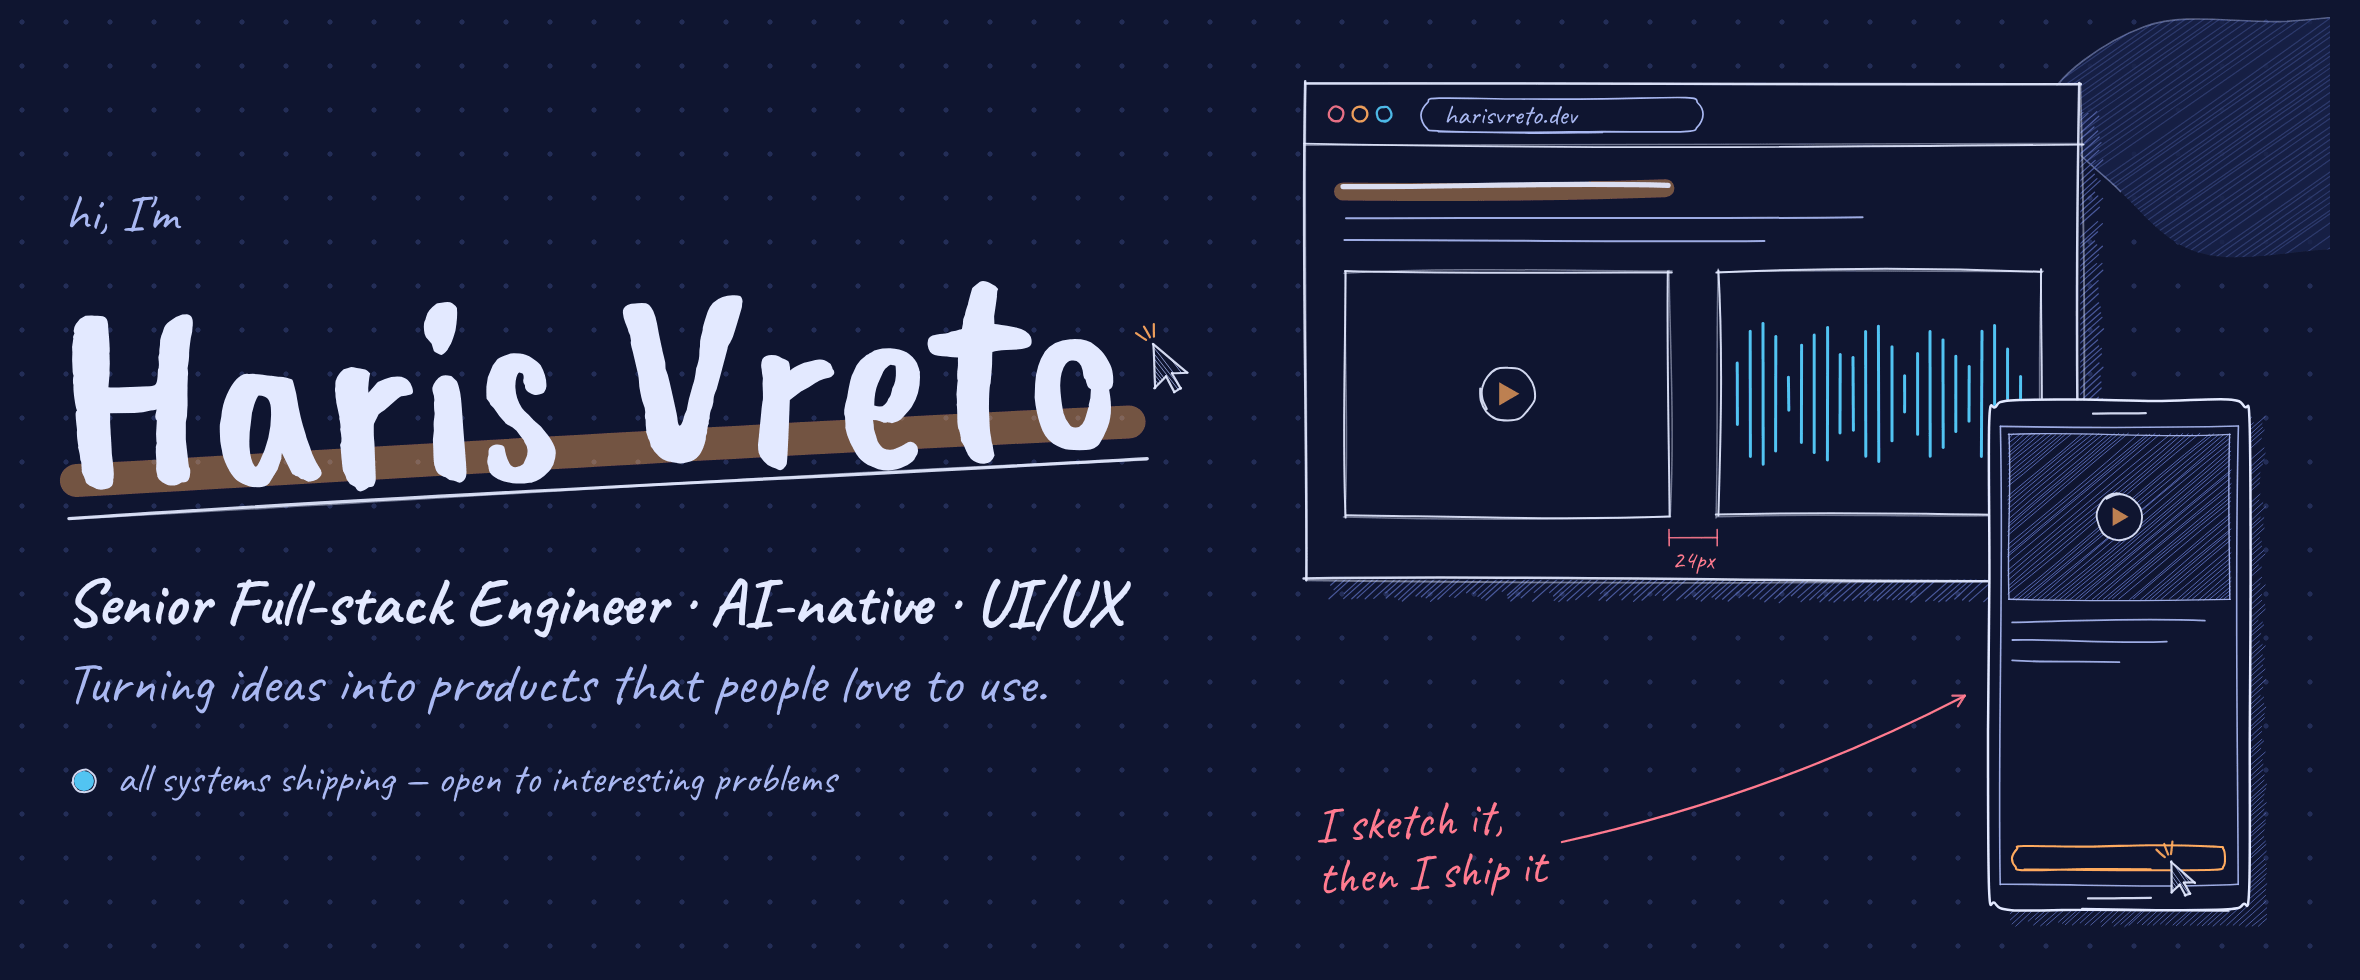
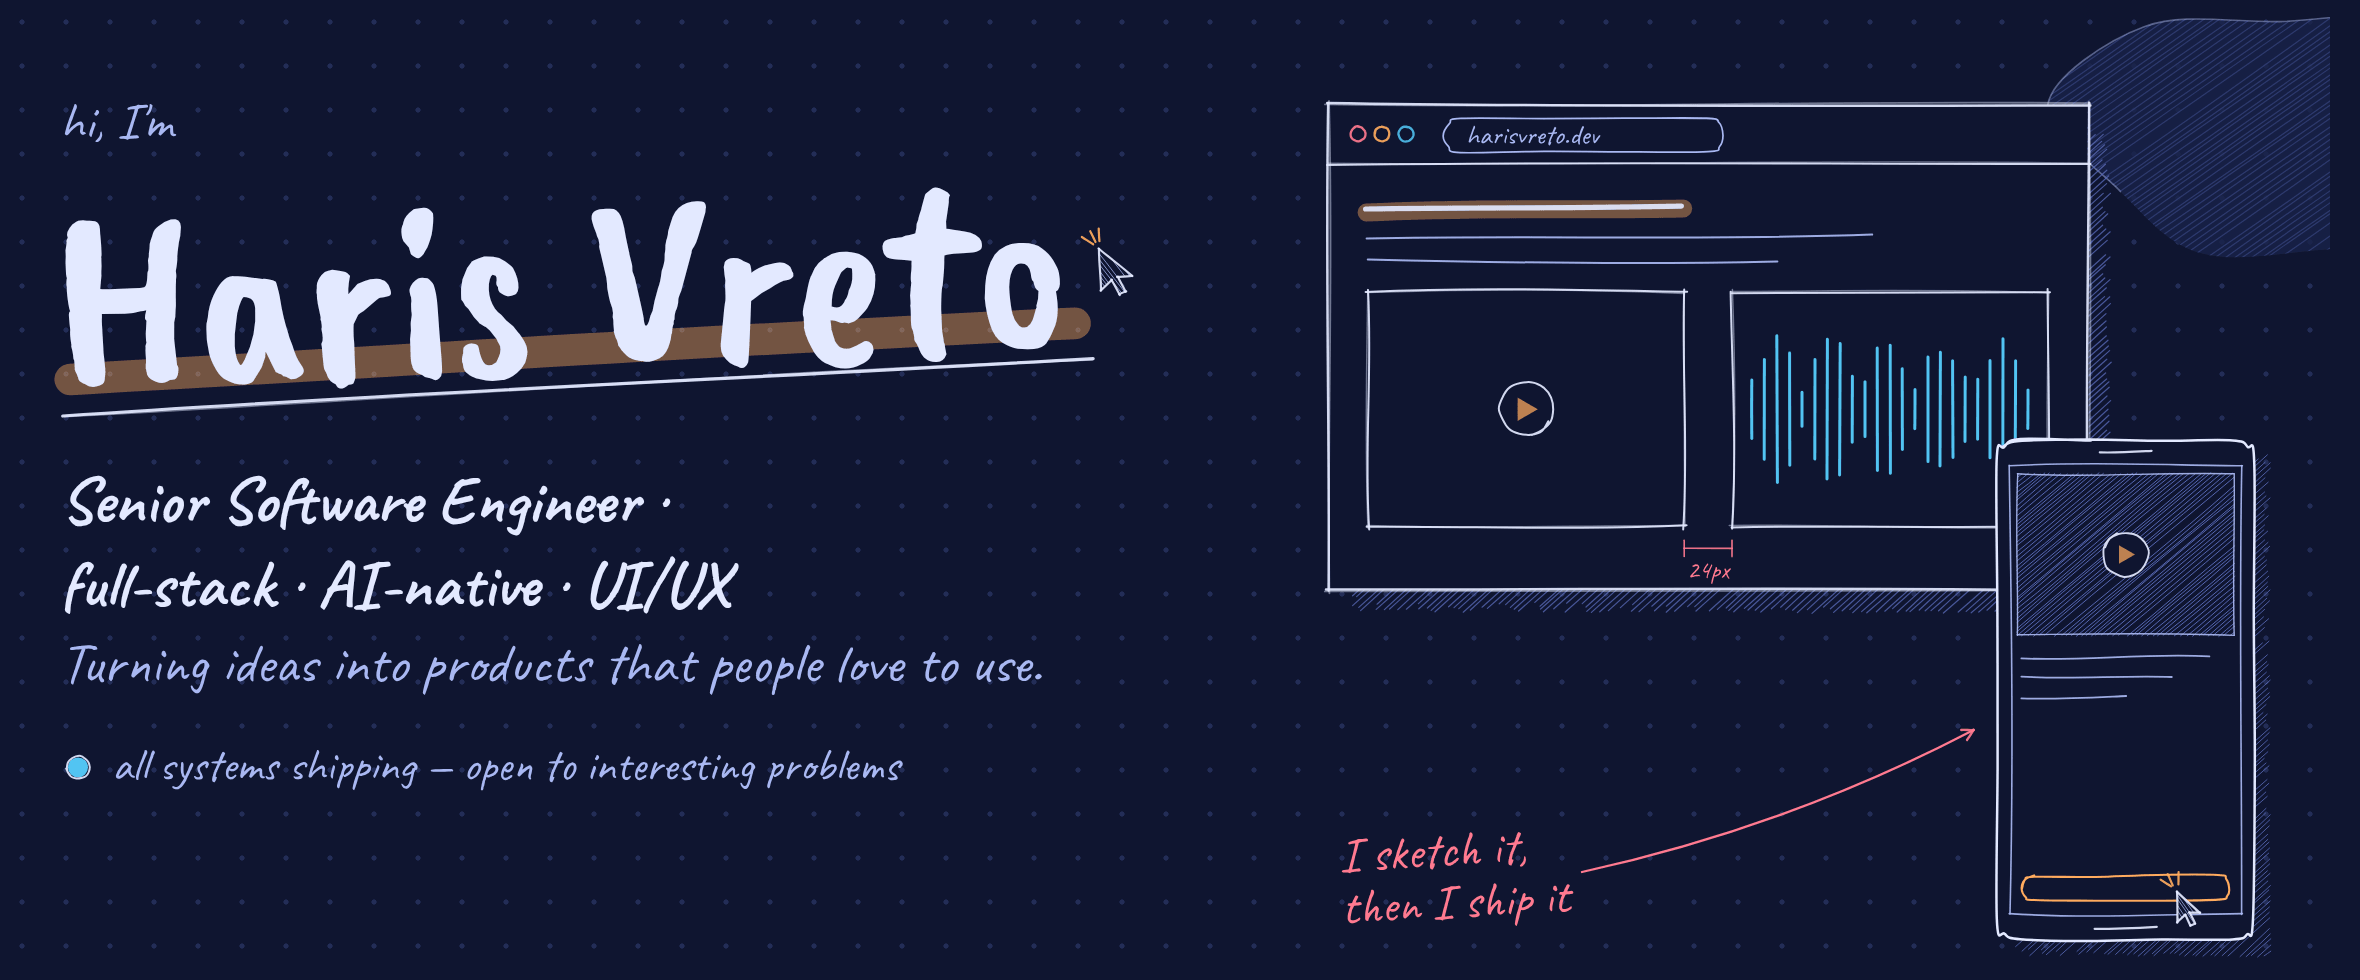
Use the new title, and point at the renamed CVs
The banner (light and dark) and og.png are redrawn from the site with
the title it now uses everywhere: Senior Software Engineer · full-stack ·
AI-native · UI/UX. The intro says "senior software engineer at Inkitt,
working full-stack", and the CV links go to Haris-Vreto-CV.pdf with the
hand-drawn one-pager second, as on the site.

Claude-Session: https://claude.ai/code/session_01HfNvmrkPXtsY9LnjcsFVKX

diff --git a/README.md b/README.md
@@ -1,20 +1,20 @@
 <a href="https://harisvreto.dev">
   <picture>
     <source media="(prefers-color-scheme: dark)" srcset="./banner-dark.png">
-    <img src="./banner-light.png" width="100%" alt="hi, I'm Haris Vreto — Senior Full-stack Engineer · AI-native · UI/UX. Turning ideas into products that people love to use. Beside it, a hand-drawn sketch of a web page and a phone, with a red-pencil note: I sketch it, then I ship it.">
+    <img src="./banner-light.png" width="100%" alt="hi, I'm Haris Vreto — Senior Software Engineer · full-stack · AI-native · UI/UX. Turning ideas into products that people love to use. Beside it, a hand-drawn sketch of a web page and a phone, with a red-pencil note: I sketch it, then I ship it.">
   </picture>
 </a>
 
 <p align="center">
   <a href="https://harisvreto.dev"><b>harisvreto.dev</b></a> ·
   <a href="https://www.linkedin.com/in/harisvreto/">LinkedIn</a> ·
-  CV: <a href="https://harisvreto.dev/cv-hand-drawn.pdf">hand-drawn</a> or <a href="https://harisvreto.dev/cv.pdf">ATS-friendly</a> ·
+  <a href="https://harisvreto.dev/Haris-Vreto-CV.pdf">CV</a> (or the <a href="https://harisvreto.dev/Haris-Vreto-CV-hand-drawn.pdf">hand-drawn one-pager</a>) ·
   <a href="https://harisvreto.dev/llms.txt">/llms.txt</a>
 </p>
 
 ## hi 👋
 
-I'm **Haris** — a senior full-stack engineer at [Inkitt](https://www.inkitt.com) (San Francisco), shipping from Sarajevo. Ten-plus years across publishing, Web3 and healthcare; hobby UI/UX designer; AI running through every stage of my workflow — agentic coding, AI-assisted review, generated tests. The gap between *idea* and *shipped* has never been smaller, and I intend to keep abusing that.
+I'm **Haris** — a senior software engineer at [Inkitt](https://www.inkitt.com) (San Francisco), working full-stack from Sarajevo. Ten-plus years across publishing, Web3 and healthcare; hobby UI/UX designer; AI running through every stage of my workflow — agentic coding, AI-assisted review, generated tests. The gap between *idea* and *shipped* has never been smaller, and I intend to keep abusing that.
 
 - **building** — the Inkitt platform · [Penna](https://penna.harisvreto.dev) · HV-1, my portfolio's zero-API chatbot
 - **based** — Sarajevo · GMT+1, SF hours
